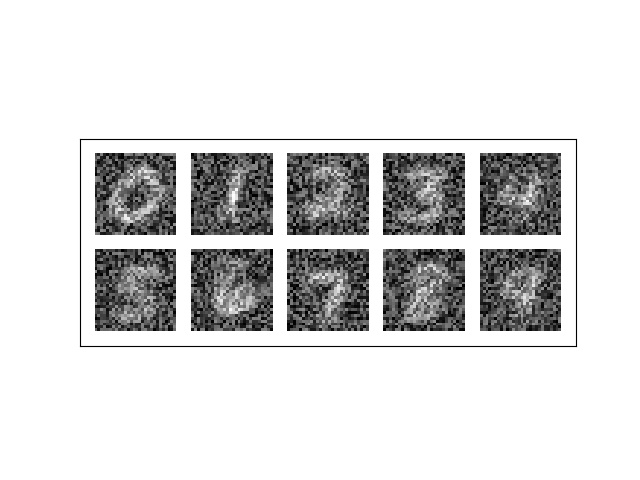
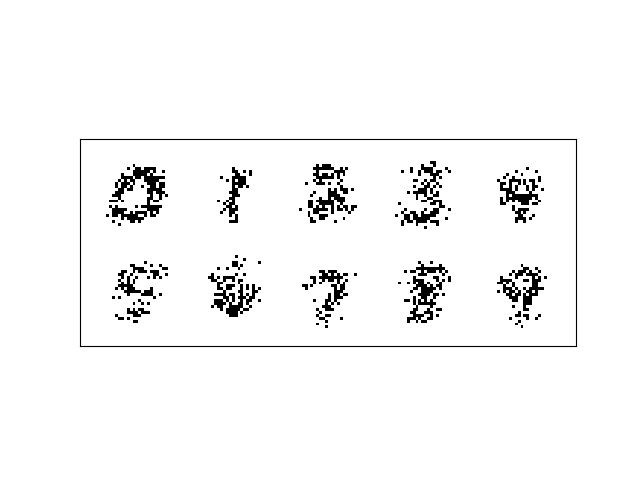
sup

Changed region(s): [[0.125, 0.3125, 0.875, 0.6875]]

diff --git a/assignment/a2/q2.py b/assignment/a2/q2.py
@@ -16,6 +16,9 @@ from urllib.request import urlretrieve
 
 from data import load_mnist, plot_images, save_images
 
+'''
+q2 part c
+'''
 def get_digits_by_label(train_images, labels, query_label):
 
     digits =[]
@@ -24,7 +27,7 @@ def get_digits_by_label(train_images, labels, query_label):
             digits.append(train_images[i])
     return digits
 
-def sample_image(train_images, train_labels):
+def generate_image(train_images, train_labels,save_image):
     np.where(train_images>0.5, 1, 0)
     generated_data = []
     means = []
@@ -32,19 +35,105 @@ def sample_image(train_images, train_labels):
         i_digits = get_digits_by_label(train_images, train_labels, i)
         means.append(np.mean(i_digits, axis=0))
         temp_generated_data = np.random.rand(784) - means[i]
-        np.where(temp_generated_data>0, 1, 0)
-        generated_data.append(temp_generated_data)
 
-    save_images(np.array(generated_data), "2_c" + '.jpg')
+        generated_data.append(np.where(temp_generated_data>0, 0, 1))
 
-def generate_botttom(train_images, train_labels):
-    np.where(train_images>0.5, 1, 0)
-    means = []
-    for i in range(0, 10):
-        i_digits = get_digits_by_label(train_images, train_labels, i)
-        means.append(np.mean(i_digits, axis=0).reshape(28,28))
+    if save_image:
+        save_images(np.array(generated_data), "2_c.jpg")
+    return np.array(means)
+
+
+'''
+q2 part f
+'''
+def log_bernoulli_prod_top(flat_data, theta, pi):
+    '''
+    return log(p(c|x)) = log(p(c,x)/sum_c(p(c,x))
+    :param flat_data:
+    :param theta:
+    :param pi:
+    :return:
+    '''
+    c, d = theta.shape
+    P_n = np.where(flat_data > 0.5, theta, np.ones((c, d)) - theta)
+    P_n = P_n[:392]
+    sum_c = np.sum(np.log(P_n), axis=1)
+    sum_c += np.log(pi)
+    #sum_c = np.multiply(pi, sum_c)
+    # marginalizing all X's
+    P_x = logsumexp(sum_c)
+    sum_c -= P_x
+    return sum_c
+
+def comb_marginal_pixels(data, labels, theta, size):
+    result_arr = []
+    theta_b = theta[:, 392:]
+    c, d = theta_b.shape
+    pi = 0.1
+    for i in range(0, size):
+        top_half = data[i, :392]
+        bottom_half = data[i, 392:]
+        #generating class probability given top data
+        P_cx = np.exp(log_bernoulli_prod_top(data[i], theta, pi))
+
+        img_arr = []
+        for n in range(392, 784):
+            total = 0
+            for cl in range(0, c):
+                if theta[cl][n]>1 or theta[cl][n]< 0:
+                    print (theta[cl][n])
+                    print(cl,n)
+                prob = [1 - theta[cl][n], theta[cl][n]]
+                choice = [0, 1]
+                c_sample = np.random.choice(choice, 1, p=prob)
+                total +=c_sample*P_cx[cl]
+            img_arr.append(total)
+
+        P_pixel = np.asarray(img_arr).reshape(392, )
+        bottom_half = P_pixel
+        # pre_sum = np.multiply(P_pixel, np.broadcast(P_cx, axis=0))
+        #bottom_half = np.sum(pre_sum, axis=0)
+        result = np.concatenate((top_half, bottom_half))
+        result = np.round(result)
+        result_arr.append(result)
+    save_images(np.asarray(result_arr), "2_f.jpg")
+
+def comb_marginal_pixels_gray(data, labels, theta, size):
+    result_arr = []
+    theta_b = theta[:, 392:]
+    c, d = theta_b.shape
+    pi = 0.1
+    for i in range(0, size):
+        top_half = data[i, :392]
+        bottom_half = data[i, 392:]
+        #generating class probability given top data
+        P_cx = np.exp(log_bernoulli_prod_top(data[i], theta, pi))
+
+        img_arr = []
+        for n in range(392, 784):
+            total = 0
+            for cl in range(0, c):
+                # prob = [1 - theta[cl][n], theta[cl][n]]
+                # choice = [0, 1]
+                # c_sample = np.random.choice(choice, 1, p=prob)
+                total +=theta[cl][n]*P_cx[cl]
+            img_arr.append(total)
+
+        P_pixel = np.asarray(img_arr).reshape(392, )
+        bottom_half = P_pixel
+        # pre_sum = np.multiply(P_pixel, np.broadcast(P_cx, axis=0))
+        #bottom_half = np.sum(pre_sum, axis=0)
+        result = np.concatenate((top_half, bottom_half))
+        result_arr.append(result)
+    test.plot_images(np.asarray(result_arr), plt)
+    plt.show()
+    plt.savefig('pic_2.png')
+
 
 if __name__ == '__main__':
     N_data, train_images, train_labels, test_images, test_labels = load_mnist()
-    sample_image(train_images, train_labels)
-    generate_botttom(train_images, train_labels)
+    save_image = 1
+    theta = generate_image(train_images, train_labels,save_image)
+
+    comb_marginal_pixels(test_images, test_labels, theta, 20)
+    # comb_marginal_pixels_gray(test_images, test_labels, theta, 20)

diff --git a/assignment/a2/q4.py b/assignment/a2/q4.py
@@ -44,8 +44,6 @@ def batch_indices(iter):
 # In particular, notice that we're keeping everything as log, and using logaddexp
 # We never want to take things out of log space for stability
 def bernoulli_log_density(targets, unnormalized_logprobs):
-    # unnormalized_logprobs are in R
-    # Targets must be 0 or 1
     t2 = targets * 2 - 1
     # Now t2 is -1 or 1, which makes the following form nice
     label_probabilities = -np.logaddexp(0, -unnormalized_logprobs*t2)
@@ -57,12 +55,12 @@ def batched_loss(params, iter):
 
 def neglogprob(params, data):
     # Implement this as the solution for 4c!
-    for c in range(K):
-        numerator =
-        sum_inner = 0.0
-        for d in range(D):
-            sum =np.add(np.divide((data[c,d]+params[c,d]) , (params[c,d]*(1-params[c,d]))), sum_inner)
-    return
+    params = sigmoid(params)
+    result = np.exp(np.dot(data, np.log(params).T) + np.dot(1-data, np.log(1-params).T))
+    result = np.mean(result, axis=1)
+    result = np.log(result)
+    result = -np.mean(result)
+    return result
 
 # Get gradient of objective using autograd.
 objective_grad = grad(batched_loss)
@@ -72,51 +70,35 @@ def print_perf(params, iter, gradient):
         save_images(sigmoid(params), 'q4plot.png')
         print(batched_loss(params, iter))
 
-
-def q4d():
-	theta = pickle.load(open('theta2.p', 'rb'))
-	pi = pickle.load(open('pi2.p', 'rb'))
-
-	for i in range(20):
-		print(i)
-		image = train_images[i]
-		top = image[:392]
-		bottom = []
-
-
-		for d in range(392,784):
-			# Calculate p(x = 0| x_top , theta) and p(x = 1| x_top, theta)
-			p_0 = 0
-			p_1 = 0
-
-			for k in range(K):
-				product_1 = theta[k, d]
-				product_0 = (1 - theta[k, d])
-
-				product = 1
-				# This is p(x_t | k, theta)
-				for d_prime in range(0, 392):
-					product = product * math.pow(theta[k, d_prime], top[d_prime]) * math.pow((1 - theta[k, d_prime]), (1 - top[d_prime]))
-
-				p_1 = p_1 + (product_1 * product)
-				p_0 = p_0 + (product_0 * product)
-
-
-			# x_d = 1 if p(x = 1 | x_top, theta) >= p(x = 0 | x_top, theta)
-			print('p_0: ' + str(p_0))
-			print('p_1: ' + str(p_1))
-			x_d = 1 if p_1 >= p_0 else 0
-			bottom.append(x_d)
-
-		img = top.tolist()  + bottom
-		print('=============================')
-		print(img)
-		img = np.asarray(img)
-		print(img.shape)
-		data.save_images(img.reshape((1, 784)), str(i) + 'b.jpg')
+def plot_bottom_half(xs, theta):
+    result = np.zeros(xs.shape)
+    for i in range(xs.shape[0]):
+        x = xs[i]
+        theta_top_temp = theta[:, :int(theta.shape[1]/2)]
+        theta_bottom_temp = theta[:, int(theta.shape[1]/2):]
+        x_top_temp = x[:int(theta.shape[1]/2)]
+        x_bottom_temp = x[int(theta.shape[1]/2):]
+        x_top_temp = np.full(theta_top_temp.shape, x_top_temp)
+        first = theta_top_temp**x_top_temp * (1-theta_top_temp) ** (1-x_top_temp)
+        first = np.prod(first, axis=1)
+        first = np.full(theta_bottom_temp.T.shape, first).T
+        x_bottom_temp = np.full(theta_bottom_temp.shape, x_bottom_temp)
+        second = theta_bottom_temp
+        second = np.sum(first * second, axis=0)
+        first = np.sum(first, axis = 0)
+        result[i, int(theta.shape[1]/2):] = second / first
+        result[i, :int(theta.shape[1]/2)] = x[:int(theta.shape[1]/2)]
+    return result
 
 if __name__ == '__main__':
     N_data, train_images, train_labels, test_images, test_labels = load_mnist()
-    auto_gd(train_images, train_labels)
 
     optimized_params = adam(objective_grad, init_params, step_size=0.2, num_iters=10000, callback=print_perf)
+    optimized_params = sigmoid(optimized_params)
+
+    # save_images(optimized_params, '4_c.jpg')
+
+    indices = np.random.permutation(train_images.shape[0])
+    images = train_images[indices[:20], :]
+    images = plot_bottom_half(images, optimized_params)
+    save_images(images, '4_d.jpg')

diff --git a/assignment/a2/q3.py b/assignment/a2/q3.py
@@ -9,75 +9,55 @@ import os
 import gzip
 import struct
 import array
-
 import matplotlib.pyplot as plt
 import matplotlib.image
 from urllib.request import urlretrieve
-
 from data import load_mnist, plot_images, save_images
 
 
-def softmax(x):
-    return x - logsumexp(x, axis = 1)[: , None]
+def softmax(z):
+    z -= np.max(z)
+    sm = (np.exp(z).T / np.sum(np.exp(z),axis=1)).T
+    return sm
 
-# w is a weight matrix of 10 by 784， x is an image of N by 784
-def logistic_predictions(w, x):
-    temp = np.dot(x, w)
-    # print(temp.shape)
-    return softmax(temp)
+def softmax_loss(weights, inputs, labels):
+    num = inputs.shape[0]
+    scores = np.dot(inputs, weights)
+    prob = softmax(scores)
+    loss = (-1/num) * np.sum(labels*np.log(prob))
+    grad = (-1 /num) * np.dot(inputs.T, (labels - prob))
+    return loss, grad
 
-# This is -log likelihood
-def training_loss(w,x,target):
-	preds = logistic_predictions(w, x)
-	# Cross entropy
-	label_probabilities = target * preds
-	return -np.sum(label_probabilities)
-
-def auto_gd(train_images, train_labels):
-    # Define a function that returns gradients of training loss using autograd.
-    training_gradient_fun = grad(training_loss)
-    # Optimize weights using gradient descent.
+def auto_gd(train_images, train_labels, save_image):
     weights = np.zeros((784, 10))
-    for i in range(100):
-        weights -= training_gradient_fun(weights,train_images,train_labels) * 0.3
-    # print("Trained loss:", training_loss(weights,train_images,train_labels))
-    # Plot w
-    w = []
-    for i in range(10):
-        w_i = weights[:, i]
-        w.append(w_i)
-    save_images(np.array(w), "q3_c" + '.jpg')
+    lr = 0.8
+    for i in range (0, 10):
+        loss, grad = softmax_loss(weights, train_images, train_labels)
+        weights -= lr*grad
 
-# def q3e():
-# 	w = pickle.load(open('weights.p', 'rb'))
-# 	train_prediction = logistic_predictions(w, train_images)
-# 	l_train = np.average(np.sum(train_prediction, axis = 1))
-# 	# print(train_prediction[0])
-# 	train_prediction = np.argmax(train_prediction, axis = 1)
-# 	# print(train_prediction[0])
-#
-# 	test_prediction = np.dot(test_images, w)
-# 	l_test = np.average(np.sum(test_prediction, axis = 1))
-# 	test_prediction = np.argmax(test_prediction, axis = 1)
-#
-# 	num_correct = 0
-# 	for i, prediction in enumerate(train_prediction):
-# 		print('Predict: ' + str(prediction) + ' label: ' + str(train_labels[i]))
-# 		if (train_labels[i][prediction] == 1):
-# 			num_correct = num_correct + 1
-# 	train_accuracy = float(num_correct) / len(train_labels)
-#
-# 	num_correct = 0
-# 	for i, prediction in enumerate(test_prediction):
-# 		if (test_labels[i][prediction] == 1):
-# 			num_correct = num_correct + 1
-# 	test_accuracy = float(num_correct) / len(test_labels)
-#
-# 	print(train_accuracy)
-# 	print(test_accuracy)
-# 	print(l_train)
-# 	print(l_test)
+    if save_image:
+        save_images(weights.T, "3_c.jpg")
+    return weights.T
+
+def avg_log_likelihood(data, labels, weights):
+    average = []
+    for i in range(len(data)):
+        denomenator = np.multiply(weights , data[i])
+        nonminator = np.dot(labels[i],denomenator)
+        prob_i = np.divide(nonminator, logsumexp(denomenator))
+        average.append(prob_i)
+    return np.mean(np.array(average))
+
 
 if __name__ == '__main__':
     N_data, train_images, train_labels, test_images, test_labels = load_mnist()
-    auto_gd(train_images, train_labels)
+
+    '''
+    3c
+    '''
+    save_image = True
+    weights = auto_gd(train_images, train_labels, save_image)
+    '''
+    3d
+    '''
+    print(avg_log_likelihood(test_images, test_labels, weights))
